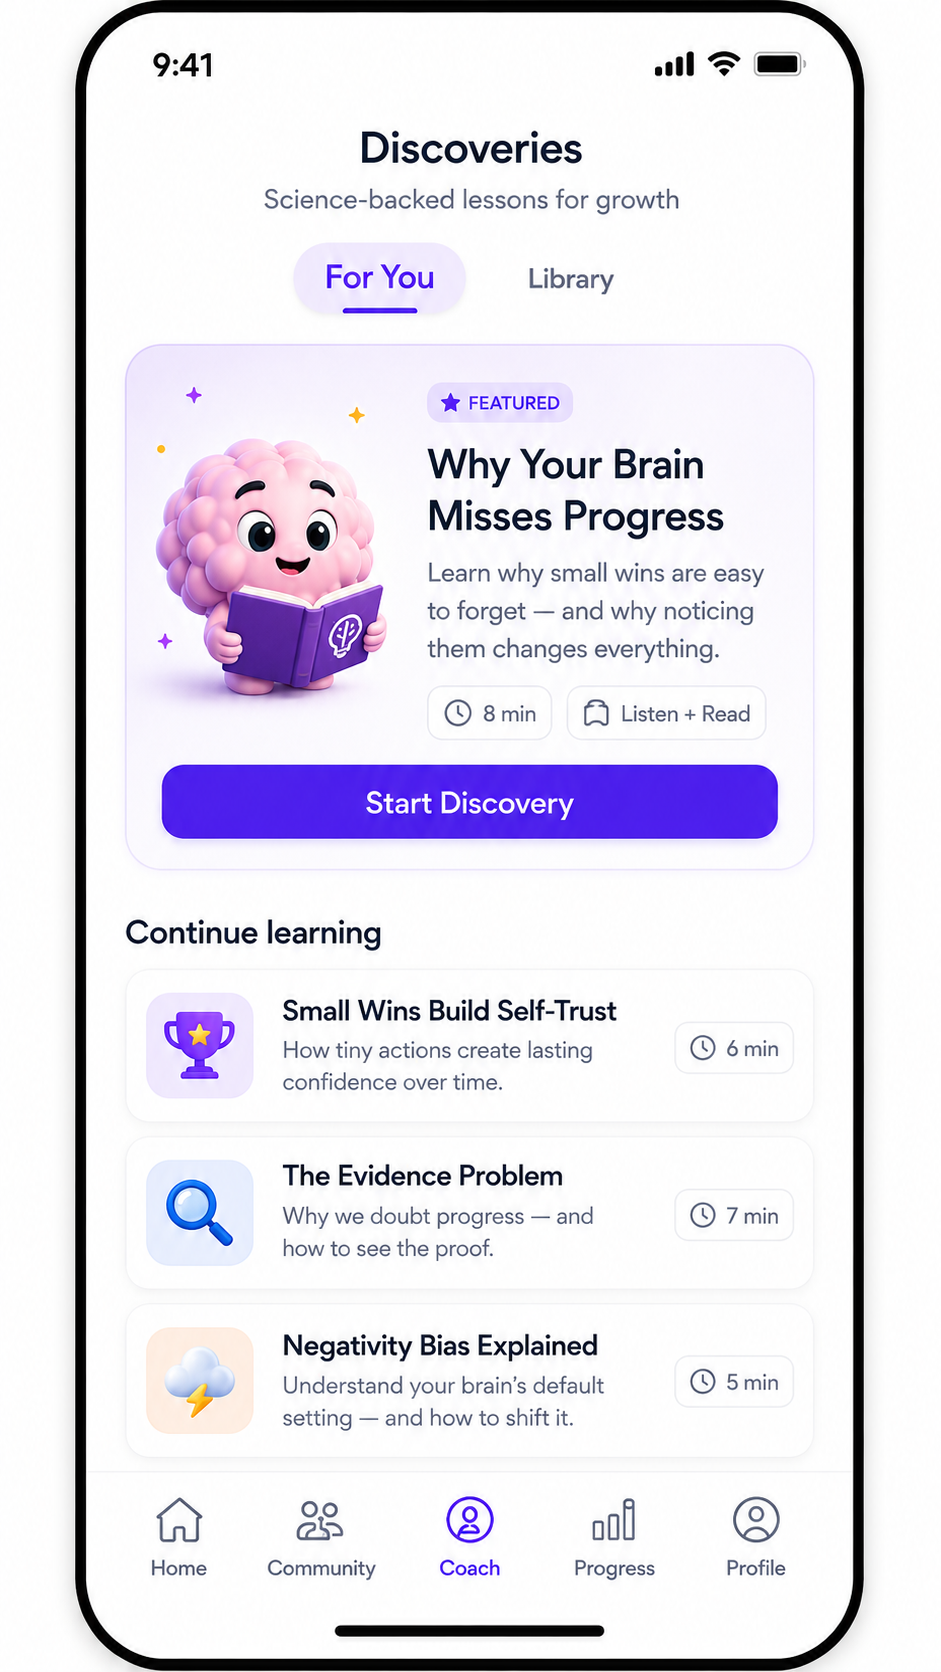
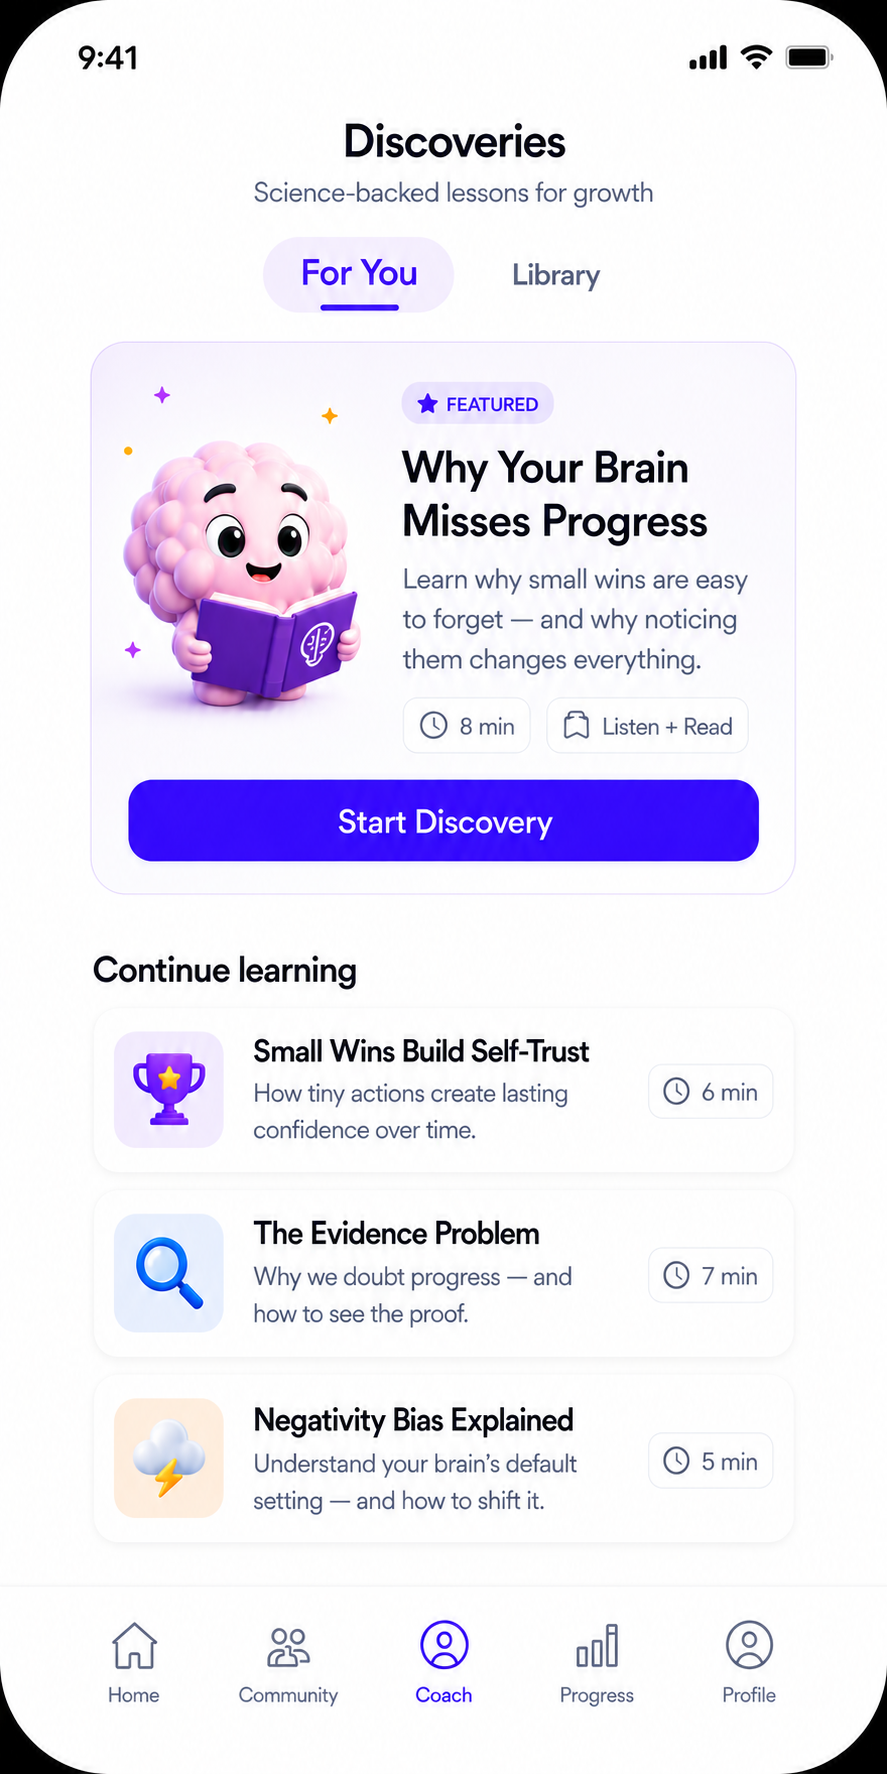
Update mockup images and expand Venn circles 25%
- Replace all 3 mockup screenshots with pre-framed phone images (Welcome, All Set, Discoveries)
- Remove per-image CSS transforms/scaling — new images are self-contained
- Venn: expand circles from r=130 to r=163 (+25%), adjust viewBox to 560x345
- Venn: enlarge mascot from 80x80 to 110x110 with more breathing room
- Venn: grow pulsing glow rings proportionally around mascot

diff --git a/index.html b/index.html
@@ -226,15 +226,12 @@ nav{
   display:grid;grid-template-columns:repeat(3,1fr);gap:24px;
 }
 .mockup-frame{
-  border-radius:20px;overflow:hidden;
-  background:var(--panel);
-  border:1px solid rgba(168,85,247,0.15);
+  border-radius:0;overflow:hidden;
+  background:transparent;
+  border:none;
   aspect-ratio:9/19;
 }
-.mockup-frame img{width:100%;height:100%;display:block;object-fit:cover;}
-.mockup-frame:nth-child(2){background:var(--bg);}
-.mockup-frame:nth-child(2) img{object-fit:cover;transform:scale(1.55);transform-origin:50% 62%;}
-.mockup-frame:nth-child(3) img{transform:scale(1.08);transform-origin:top center;}
+.mockup-frame img{width:100%;height:100%;display:block;object-fit:contain;}
 
 /* ── QUIZ ENTRY ── */
 .quiz-entry{
@@ -661,50 +658,50 @@ footer{
 
     <!-- Right: Venn diagram + tagline -->
     <div style="flex:1;display:flex;flex-direction:column;align-items:center;">
-      <svg viewBox="0 0 550 290" xmlns="http://www.w3.org/2000/svg" style="width:100%;max-width:580px;height:auto;overflow:visible;">
+      <svg viewBox="0 0 560 345" xmlns="http://www.w3.org/2000/svg" style="width:100%;max-width:620px;height:auto;overflow:visible;">
         <defs>
           <radialGradient id="dopa-pg" cx="28%" cy="50%" r="72%"><stop offset="0%" stop-color="#C084FC" stop-opacity="0.95"/><stop offset="100%" stop-color="#7B2FBE" stop-opacity="0.4"/></radialGradient>
           <radialGradient id="dopa-og" cx="72%" cy="50%" r="72%"><stop offset="0%" stop-color="#FFB020" stop-opacity="0.95"/><stop offset="100%" stop-color="#FF6B00" stop-opacity="0.35"/></radialGradient>
-          <clipPath id="dopa-lc"><circle cx="175" cy="145" r="130"/></clipPath>
+          <clipPath id="dopa-lc"><circle cx="175" cy="170" r="163"/></clipPath>
         </defs>
         <!-- Circle fills -->
-        <circle cx="175" cy="145" r="130" fill="rgba(123,47,190,0.07)"/>
-        <circle cx="375" cy="145" r="130" fill="rgba(255,107,0,0.05)"/>
-        <circle cx="375" cy="145" r="130" fill="rgba(255,176,32,0.055)" clip-path="url(#dopa-lc)"/>
+        <circle cx="175" cy="170" r="163" fill="rgba(123,47,190,0.07)"/>
+        <circle cx="375" cy="170" r="163" fill="rgba(255,107,0,0.05)"/>
+        <circle cx="375" cy="170" r="163" fill="rgba(255,176,32,0.055)" clip-path="url(#dopa-lc)"/>
         <!-- Circle strokes -->
-        <circle cx="175" cy="145" r="130" fill="none" stroke="#A855F7" stroke-width="5" opacity="0.07"/>
-        <circle cx="175" cy="145" r="130" fill="none" stroke="url(#dopa-pg)" stroke-width="1.5"/>
-        <circle cx="375" cy="145" r="130" fill="none" stroke="#FFB020" stroke-width="5" opacity="0.07"/>
-        <circle cx="375" cy="145" r="130" fill="none" stroke="url(#dopa-og)" stroke-width="1.5"/>
+        <circle cx="175" cy="170" r="163" fill="none" stroke="#A855F7" stroke-width="5" opacity="0.07"/>
+        <circle cx="175" cy="170" r="163" fill="none" stroke="url(#dopa-pg)" stroke-width="1.5"/>
+        <circle cx="375" cy="170" r="163" fill="none" stroke="#FFB020" stroke-width="5" opacity="0.07"/>
+        <circle cx="375" cy="170" r="163" fill="none" stroke="url(#dopa-og)" stroke-width="1.5"/>
 
-        <!-- LEFT CIRCLE: LEARNING — content centered at cy=145 -->
-        <rect x="152" y="81" width="46" height="46" rx="8" fill="rgba(123,47,190,0.18)" stroke="rgba(168,85,247,0.35)" stroke-width="1"/>
-        <g transform="translate(163,92) scale(0.83)">
+        <!-- LEFT CIRCLE: LEARNING -->
+        <rect x="152" y="56" width="46" height="46" rx="8" fill="rgba(123,47,190,0.18)" stroke="rgba(168,85,247,0.35)" stroke-width="1"/>
+        <g transform="translate(163,67) scale(0.83)">
           <path d="M12 6.253v13m0-13C10.832 5.477 9.246 5 7.5 5S4.168 5.477 3 6.253v13C4.168 18.477 5.754 18 7.5 18s3.332.477 4.5 1.253m0-13C13.168 5.477 14.754 5 16.5 5c1.747 0 3.332.477 4.5 1.253v13C19.832 18.477 18.247 18 16.5 18c-1.746 0-3.332.477-4.5 1.253" stroke="#A855F7" stroke-width="2" fill="none" stroke-linecap="round" stroke-linejoin="round"/>
         </g>
-        <text x="175" y="143" text-anchor="middle" font-family="'DM Sans',sans-serif" font-size="10" font-weight="700" letter-spacing="2px" fill="#A855F7">LEARNING</text>
-        <text x="175" y="162" text-anchor="middle" font-family="'DM Sans',sans-serif" font-size="12" font-weight="400" fill="rgba(250,250,247,0.75)">The science</text>
-        <text x="175" y="178" text-anchor="middle" font-family="'DM Sans',sans-serif" font-size="12" font-weight="400" fill="rgba(250,250,247,0.75)">and lessons</text>
-        <text x="175" y="194" text-anchor="middle" font-family="'DM Sans',sans-serif" font-size="12" font-weight="400" fill="rgba(250,250,247,0.75)">that build</text>
-        <text x="175" y="210" text-anchor="middle" font-family="'DM Sans',sans-serif" font-size="12" font-weight="400" fill="rgba(250,250,247,0.75)">understanding</text>
+        <text x="175" y="118" text-anchor="middle" font-family="'DM Sans',sans-serif" font-size="10" font-weight="700" letter-spacing="2px" fill="#A855F7">LEARNING</text>
+        <text x="175" y="137" text-anchor="middle" font-family="'DM Sans',sans-serif" font-size="12" font-weight="400" fill="rgba(250,250,247,0.75)">The science</text>
+        <text x="175" y="153" text-anchor="middle" font-family="'DM Sans',sans-serif" font-size="12" font-weight="400" fill="rgba(250,250,247,0.75)">and lessons</text>
+        <text x="175" y="169" text-anchor="middle" font-family="'DM Sans',sans-serif" font-size="12" font-weight="400" fill="rgba(250,250,247,0.75)">that build</text>
+        <text x="175" y="185" text-anchor="middle" font-family="'DM Sans',sans-serif" font-size="12" font-weight="400" fill="rgba(250,250,247,0.75)">understanding</text>
 
         <!-- CENTER OVERLAP: PULSING GLOW + MASCOT -->
-        <circle cx="275" cy="140" r="40" fill="rgba(255,176,32,0.05)"/>
-        <circle cx="275" cy="140" r="38" fill="none" stroke="rgba(255,176,32,0.5)" stroke-width="1"><animate attributeName="r" values="36;58;36" dur="2.8s" repeatCount="indefinite"/><animate attributeName="opacity" values="0.5;0;0.5" dur="2.8s" repeatCount="indefinite"/></circle>
-        <circle cx="275" cy="140" r="34" fill="none" stroke="rgba(168,85,247,0.4)" stroke-width="1"><animate attributeName="r" values="34;50;34" dur="2.8s" begin="0.6s" repeatCount="indefinite"/><animate attributeName="opacity" values="0.4;0;0.4" dur="2.8s" begin="0.6s" repeatCount="indefinite"/></circle>
-        <circle cx="275" cy="140" r="28" fill="none" stroke="rgba(255,176,32,0.3)" stroke-width="1"><animate attributeName="r" values="28;40;28" dur="2.8s" begin="1.2s" repeatCount="indefinite"/><animate attributeName="opacity" values="0.3;0;0.3" dur="2.8s" begin="1.2s" repeatCount="indefinite"/></circle>
-        <image href="assets/mascot.png" x="235" y="100" width="80" height="80"/>
-        <text x="275" y="200" text-anchor="middle" font-family="'DM Sans',sans-serif" font-size="10" font-weight="700" letter-spacing="1.5px" fill="#FFFFFF">MYDOPA</text>
+        <circle cx="275" cy="158" r="55" fill="rgba(255,176,32,0.05)"/>
+        <circle cx="275" cy="158" r="50" fill="none" stroke="rgba(255,176,32,0.5)" stroke-width="1"><animate attributeName="r" values="48;78;48" dur="2.8s" repeatCount="indefinite"/><animate attributeName="opacity" values="0.5;0;0.5" dur="2.8s" repeatCount="indefinite"/></circle>
+        <circle cx="275" cy="158" r="44" fill="none" stroke="rgba(168,85,247,0.4)" stroke-width="1"><animate attributeName="r" values="42;68;42" dur="2.8s" begin="0.6s" repeatCount="indefinite"/><animate attributeName="opacity" values="0.4;0;0.4" dur="2.8s" begin="0.6s" repeatCount="indefinite"/></circle>
+        <circle cx="275" cy="158" r="36" fill="none" stroke="rgba(255,176,32,0.3)" stroke-width="1"><animate attributeName="r" values="34;56;34" dur="2.8s" begin="1.2s" repeatCount="indefinite"/><animate attributeName="opacity" values="0.3;0;0.3" dur="2.8s" begin="1.2s" repeatCount="indefinite"/></circle>
+        <image href="assets/mascot.png" x="220" y="105" width="110" height="110"/>
+        <text x="275" y="242" text-anchor="middle" font-family="'DM Sans',sans-serif" font-size="10" font-weight="700" letter-spacing="1.5px" fill="#FFFFFF">MYDOPA</text>
 
-        <!-- RIGHT CIRCLE: COACHING — content centered at cy=145 -->
-        <rect x="352" y="81" width="46" height="46" rx="8" fill="rgba(255,107,0,0.12)" stroke="rgba(255,176,32,0.35)" stroke-width="1"/>
-        <g transform="translate(363,92) scale(0.83)">
+        <!-- RIGHT CIRCLE: COACHING -->
+        <rect x="352" y="56" width="46" height="46" rx="8" fill="rgba(255,107,0,0.12)" stroke="rgba(255,176,32,0.35)" stroke-width="1"/>
+        <g transform="translate(363,67) scale(0.83)">
           <path d="M17 20h5v-2a3 3 0 00-5.356-1.857M17 20H7m10 0v-2c0-.656-.126-1.283-.356-1.857M7 20H2v-2a3 3 0 015.356-1.857M7 20v-2c0-.656.126-1.283.356-1.857m0 0a5.002 5.002 0 019.288 0M15 7a3 3 0 11-6 0 3 3 0 016 0zm6 3a2 2 0 11-4 0 2 2 0 014 0zM7 10a2 2 0 11-4 0 2 2 0 014 0z" stroke="#FFB020" stroke-width="2" fill="none" stroke-linecap="round" stroke-linejoin="round"/>
         </g>
-        <text x="375" y="143" text-anchor="middle" font-family="'DM Sans',sans-serif" font-size="10" font-weight="700" letter-spacing="2px" fill="#FFB020">COACHING</text>
-        <text x="375" y="162" text-anchor="middle" font-family="'DM Sans',sans-serif" font-size="12" font-weight="400" fill="rgba(250,250,247,0.75)">Support and</text>
-        <text x="375" y="178" text-anchor="middle" font-family="'DM Sans',sans-serif" font-size="12" font-weight="400" fill="rgba(250,250,247,0.75)">guidance when</text>
-        <text x="375" y="194" text-anchor="middle" font-family="'DM Sans',sans-serif" font-size="12" font-weight="400" fill="rgba(250,250,247,0.75)">you need it</text>
+        <text x="375" y="118" text-anchor="middle" font-family="'DM Sans',sans-serif" font-size="10" font-weight="700" letter-spacing="2px" fill="#FFB020">COACHING</text>
+        <text x="375" y="137" text-anchor="middle" font-family="'DM Sans',sans-serif" font-size="12" font-weight="400" fill="rgba(250,250,247,0.75)">Support and</text>
+        <text x="375" y="153" text-anchor="middle" font-family="'DM Sans',sans-serif" font-size="12" font-weight="400" fill="rgba(250,250,247,0.75)">guidance when</text>
+        <text x="375" y="169" text-anchor="middle" font-family="'DM Sans',sans-serif" font-size="12" font-weight="400" fill="rgba(250,250,247,0.75)">you need it</text>
       </svg>
       <p style="font-family:'DM Sans',sans-serif;font-size:clamp(14px,1.5vw,17px);font-weight:600;color:#FFB020;letter-spacing:0.3px;text-align:center;margin:20px 0 0;">Your progress. Your proof. Your power.</p>
     </div>